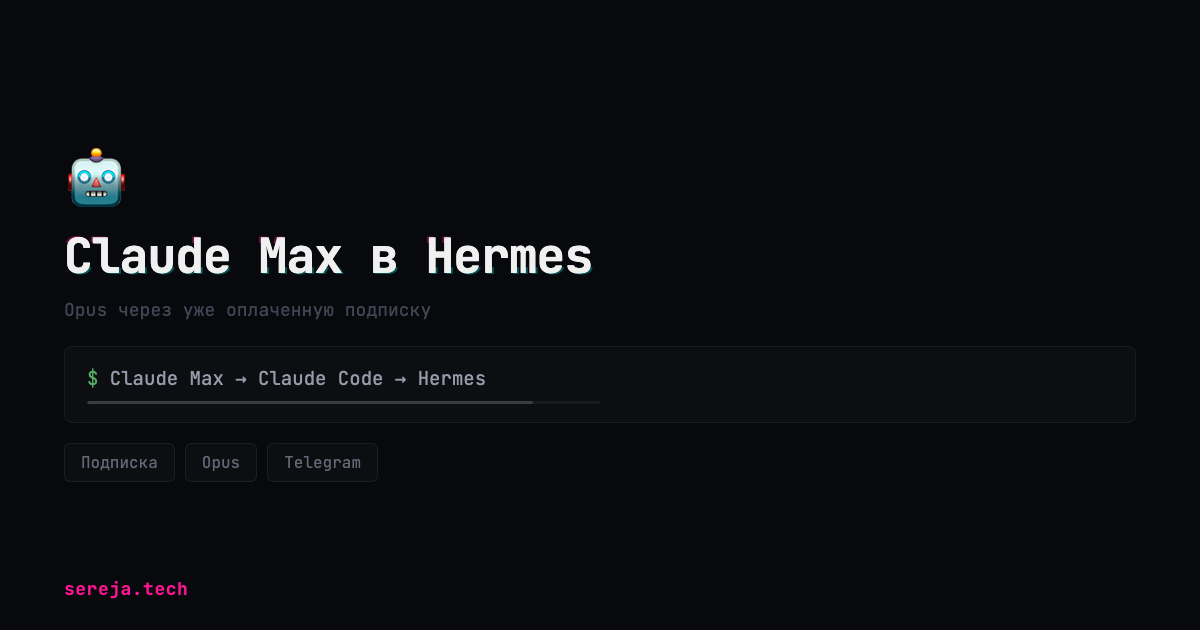
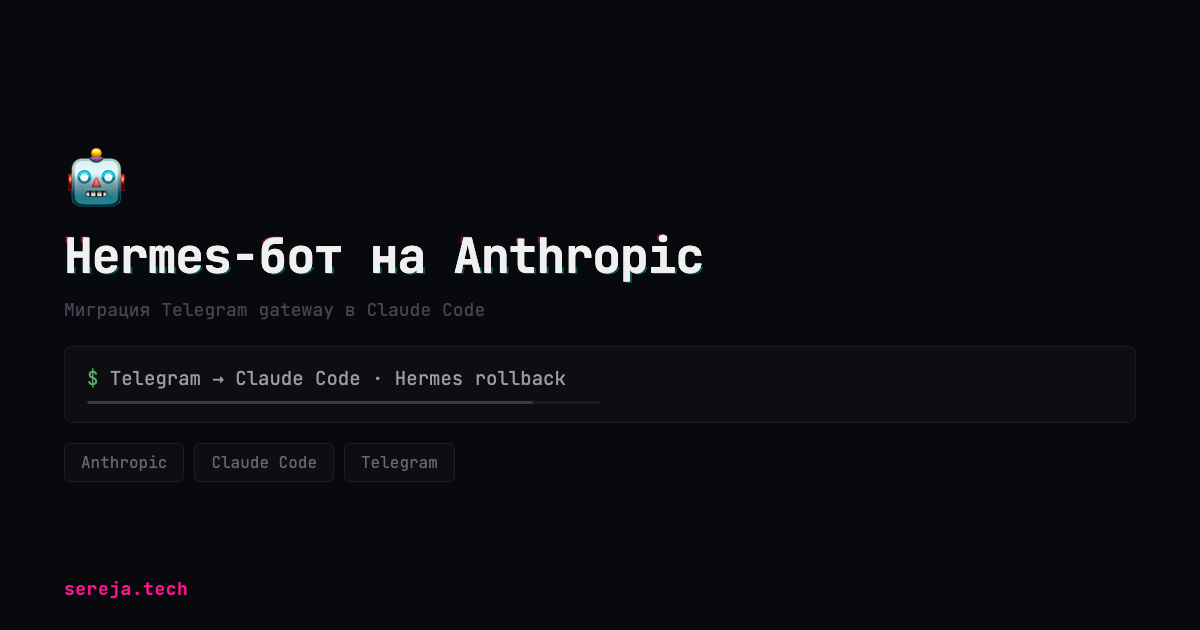
fix(blog): clarify Anthropic Hermes migration

diff --git a/content/blog/claude-max-hermes-telegram.md b/content/blog/claude-max-hermes-telegram.md
@@ -1,85 +1,117 @@
 ---
-title: "Как подключить Claude Max к Hermes через подписку"
+title: "Как перевести Hermes-бота на подписку Anthropic"
 date: 2026-08-04
-description: "Рабочая схема Claude Max для Hermes: Opus в Telegram через действующую подписку, официальный Claude Code и постоянный серверный канал."
-tags: ["hermes", "claude-code", "claude-max", "telegram", "вайбкодинг"]
+description: "Рабочая миграция Hermes-бота на Claude Code: подписка Anthropic, тот же Telegram-бот, выбранные скиллы и исправление ответов внутри topics."
+tags: ["hermes", "anthropic", "claude-code", "telegram", "вайбкодинг"]
 image: "/images/blog/claude-max-hermes-telegram-preview.png"
 cta: personal_corp
 cta_code: pc_blog
 ---
 
-Я подключил Claude Max к Hermes так, чтобы Opus в Telegram работал за счёт действующей подписки. Путь такой: официальный Claude Code авторизуется в аккаунте Max, Telegram Channel передаёт ему сообщения, рабочая папка остаётся у Hermes. Anthropic API key и Extra Usage для этой схемы не нужны.
+Сразу важное: официальный Telegram-плагин Anthropic не подключается внутрь Hermes. Я остановил Telegram gateway Hermes и запустил вместо него Claude Code Telegram Channel на токене того же бота. Имя бота осталось прежним. Модель, подписка и ответы теперь идут через Claude Code.
 
-На живом боте схема заработала с Opus в личке и в тредах. Extra Usage был выключен. Расход шёл по обычному лимиту Claude Max.
+Контекст тоже потребовал миграции. Я отдельно перенёс нужные инструкции, один скилл и рабочий репозиторий. История сессий и память Hermes автоматически в Claude Code не переехали. Это замена runtime с выборочным переносом артефактов.
 
-## Откуда берётся путаница
+Схему проверил на живом боте с Opus и подпиской Claude Max. Личка отвечает, проверенный private topic отвечает, сервис переживает рестарт. Extra Usage выключен.
 
-В настройках Hermes есть Anthropic OAuth. Кажется, что достаточно войти в аккаунт с Max и выбрать Opus. [Документация Hermes](https://hermes-agent.nousresearch.com/docs/integrations/providers) отдельно предупреждает: встроенный провайдер использует кредиты Extra Usage. Базовый лимит Max через него не расходуется.
+## Что именно меняется
 
-Для пути через подписку нужен официальный рантайм Claude Code. Anthropic сейчас разрешает использовать `claude -p` и Agent SDK в пределах подписки. Компания [приостановила планировавшееся изменение биллинга](https://support.claude.com/en/articles/15036540-use-the-claude-agent-sdk-with-your-claude-plan), поэтому схема продолжает работать с текущими лимитами Max.
+Пользователь продолжает писать тому же Telegram-боту. Под капотом работает другой gateway.
 
-## Как устроен путь через подписку
+| Часть | Что с ней происходит |
+|---|---|
+| Telegram-бот | Сохраняются username и токен |
+| Hermes gateway | Останавливается и остаётся готовым для rollback |
+| Claude Code | Становится новым runtime для модели и Telegram |
+| Инструкции и репозитории | Переносятся выборочно в новый workspace |
+| Скиллы | Ставятся отдельно в каталог Claude Code |
+| Память Hermes | Требует отдельного экспорта и адаптации |
+| Оплата модели | Идёт через авторизованную подписку Anthropic |
 
-На сервере запускается авторизованный Claude Code. К нему подключается официальный Telegram-плагин Anthropic. Плагин принимает сообщение, передаёт его в живую сессию Claude Code и возвращает ответ в Telegram.
+Поэтому фраза "подключить подписку к Hermes" немного обманчива. Рабочая схема переводит существующего Hermes-бота на Claude Code Channel. Сам процесс Hermes больше не обрабатывает сообщения.
+
+## Почему смена провайдера Hermes не подходит
+
+У Hermes есть собственный Anthropic OAuth. [Документация Hermes](https://hermes-agent.nousresearch.com/docs/integrations/providers) предупреждает, что этот маршрут использует кредиты Extra Usage. Обычный подписочный лимит через него не расходуется.
+
+Для подписки я использую [Claude Code Channels](https://code.claude.com/docs/en/channels). Claude Code авторизован в аккаунте Anthropic, а официальный Telegram Channel подключён к его живой сессии. В моём тесте тариф был Max, алиас `opus` выбрал `claude-opus-5`. Для другого тарифа сначала стоит проверить доступность Claude Code в аккаунте.
+
+Связка выглядит так:
 
 ```text
-Telegram → официальный Channel → Claude Code → Opus
-                         │
-                         └── файлы, скиллы и рабочая папка Hermes
+Telegram-бот
+     ↕
+официальный Telegram Channel
+     ↕
+Claude Code + подписка Anthropic
+     ↕
+новый workspace
+инструкции · рабочие репозитории
+
+каталог Claude Code
+выбранные скиллы
+
+Hermes gateway: остановлен, сохранён для rollback
 ```
 
-У [Claude Code Channels](https://code.claude.com/docs/en/channels) двусторонняя связь. Можно написать боту с телефона, получить ответ, продолжить разговор в терминале и снова вернуться в Telegram. Для постоянной работы сессию нужно держать живой на сервере.
+Официальный плагин запускается внутри сессии Claude Code. Hermes с ним напрямую не связан. Связь сохраняется на уровне бот-токена, имени бота и тех рабочих артефактов, которые агент перенёс в новый workspace.
 
-У меня модель `opus` разрешилась в `claude-opus-5`. Название конкретной версии со временем поменяется, поэтому в конфиге лучше просить актуальный Opus через официальный алиас.
+## Промпт для серверного агента
 
-## Промпт, который можно отдать агенту
-
-Я не настраивал всё руками. Дал серверному агенту задачу, а затем проверил результат двумя сообщениями. Вот версия промпта без моих приватных путей и токенов:
+Всю миграцию я отдал агенту. Вот исправленная версия промпта, которая учитывает реальную архитектуру и баг Telegram topics:
 
 {{< callout insight >}}
-Подключи мою действующую подписку Claude Max к Telegram-боту на этом сервере через официальный Claude Code Telegram Channel.
+Переведи существующего Hermes Telegram-бота на мою подписку Anthropic через официальный Claude Code Telegram Channel.
 
-Сначала сделай резервную копию текущего конфига и сервиса Hermes. Проверь, что Claude Code установлен из официального источника и авторизован в моём аккаунте Anthropic. Выбери актуальный Opus.
+Это миграция gateway. Не меняй провайдера внутри Hermes. Сначала сделай резервную копию текущего контейнера, конфигов Hermes и Telegram gateway. Зафиксируй точный rollback.
 
-Установи Bun и официальный Telegram-плагин `telegram@claude-plugins-official`. Возьми существующий токен бота из защищённого конфига, не печатай его в логах и ответах. Добавь мой Telegram user ID в allowlist. На одного бота оставь ровно один процесс polling.
+Проверь официальную установку и авторизацию Claude Code. Установи Bun и `telegram@claude-plugins-official`. Создай отдельный workspace для Claude Code. Перенеси туда только нужные инструкции и рабочие репозитории. Нужные скиллы установи в каталог Claude Code отдельно. Не заявляй перенос памяти Hermes без отдельной проверки.
 
-Запусти канал как постоянный systemd user service с корректным PATH для Bun и Claude Code. Рабочей директорией оставь папку Hermes, чтобы Claude видел его инструкции, память и скиллы.
+Возьми существующий Telegram bot token из защищённого конфига. Не печатай его. Создай `access.json` с mode `0600`: owner-only DM allowlist, а для нужной группы укажи её ID, `groups.<id>.allowFrom` с ID владельца и `requireMention`. Перед запуском нового gateway останови старый poller: один токен должен обслуживать ровно один процесс.
 
-Проверь два сценария: ответ в личном сообщении и ответ внутри Telegram-треда через `reply_to`. Покажи только статусы тестов, выбранную модель и источник лимита. Если тесты не прошли, верни прежний сервис из резервной копии.
+Проверь исходник и точную версию установленного Telegram-плагина. Если он не передаёт `message_thread_id`, сохрани backup `server.ts` и versioned patch. Сначала выполни `patch --dry-run`, затем примени hotfix в cache установленной версии: добавь ID topic во входящий channel meta, схему инструмента `reply`, `sendMessage`, отправку файлов и typing action. В инструкциях Claude Code потребуй возвращать тот же `message_thread_id` в каждом ответе внутри topic. `reply_to` оставь для quote reply. После update плагина снова проверь и при необходимости повторно примени patch.
+
+Сначала запусти Claude Code интерактивно в целевом workspace и сохрани UUID проверенной сессии. Затем создай постоянный user service с явными HOME, PATH и рабочим каталогом. В `ExecStart` зафиксируй `--resume <UUID> --model opus --channels plugin:telegram@claude-plugins-official`. Для Claude Code выдели псевдо-TTY через `/usr/bin/script -qefc`, включи linger и `systemctl --user enable --now`. Закрой SSH и только после этого повтори smoke.
+
+Проверь отдельными nonce: личное сообщение, private topic, ответ после рестарта сервиса. Для topic сравни входящий и исходящий `message_thread_id`, затем проверь через Telegram-клиент, что ответ имеет тот же forum topic. Покажи статусы без токенов и приватных ID.
+
+При ошибке сначала останови Claude gateway, затем верни прежний Hermes gateway. Никогда не запускай оба poller одновременно.
 {{< /callout >}}
 
-Во время авторизации Claude Code покажет ссылку или откроет браузер. Этот шаг лучше пройти самому: агенту не нужен пароль от Anthropic. Токен Telegram тоже стоит хранить в env-файле с закрытыми правами.
+Авторизацию Anthropic лучше пройти самому. Агенту достаточно увидеть статус успешного входа. Пароль, OAuth-код и содержимое файла с credentials ему отправлять не нужно.
 
-## Где чаще всего ломается
+## Почему бот ставил реакцию и молчал
 
-**Бот ставит реакцию и молчит.** Обычно входящее сообщение дошло, а ответ потерялся в шлюзе. Сначала смотрю журнал сервиса и проверяю, что Claude Code запущен в постоянной сессии.
+После первой миграции личка отвечала. В новом private topic бот ставил реакцию 👀 и замолкал. В логах всё выглядело успешно: входящее сообщение дошло, Claude вызвал `reply`, Telegram вернул `sent`.
 
-**Личка работает, треды молчат.** Telegram ждёт ответ с привязкой к исходному сообщению. В шлюзе должен передаваться `reply_to`. Это был отдельный тест в моей проверке.
+Причина оказалась в официальном плагине версии `0.0.6`. Во входящем событии были `chat_id` и `message_id`, инструмент `reply` принимал `reply_to`, а `message_thread_id` отсутствовал в обоих направлениях. Реакция работала, потому что она ставится на существующее сообщение. Новый ответ уходил за пределы открытого topic.
 
-**Telegram пишет конфликт polling.** Один токен одновременно слушают два процесса. Старый Hermes-шлюз и новый Channel начинают отбирать события друг у друга. На время переключения оставляю одного слушателя.
+`reply_to` и `message_thread_id` решают разные задачи. Первый создаёт quote reply. Второй выбирает topic для нового сообщения. Общий пробел описан в [issue #1158](https://github.com/anthropics/claude-plugins-official/issues/1158).
 
-**Сервис работает из терминала и падает после перезапуска.** У systemd может быть другой `PATH`. В нём должны находиться Bun и Claude Code. Полезно перезагрузить сервис и сервер, затем повторить тест.
+Отдельное наблюдение по private topics есть в [issue #4349](https://github.com/anthropics/claude-plugins-official/issues/4349).
 
-**Claude отвечает без памяти Hermes.** Проверь рабочую директорию процесса. Именно там должны лежать инструкции, скиллы и файлы контекста. Я отдельно попросил агента сохранить эту папку при миграции.
+Поле для topic определено в [Telegram Bot API](https://core.telegram.org/bots/api#sendmessage).
 
-## Как понять, что всё подключилось
+Я добавил локальный hotfix и повторил E2E дважды. Во втором прогоне сервис был предварительно перезапущен. В обоих случаях входящий event и вызов `reply` содержали одинаковый `message_thread_id`, а Telegram-клиент подтвердил ответ внутри исходного topic.
 
-Я проверяю четыре вещи:
+## Как проверить результат
 
-1. `claude` видит активную авторизацию Max.
-2. Алиас `opus` выбирает актуальную модель Opus.
-3. Бот отвечает в обычном сообщении и внутри треда.
-4. В аккаунте Anthropic Extra Usage остаётся выключенным.
+Я считаю миграцию рабочей после шести проверок:
 
-После этого отправляю реальную задачу с доступом к файлам Hermes. Простой ответ «привет» проверяет только Telegram. Запрос вроде «прочитай свои инструкции и назови доступные скиллы» подтверждает, что рабочий контекст тоже на месте.
+1. Claude Code видит активную подписочную авторизацию.
+2. Запущен один Telegram poller.
+3. Личное сообщение получает точный ответ.
+4. Topic-сообщение и ответ имеют одинаковый `message_thread_id`.
+5. После рестарта сервиса topic-тест проходит ещё раз.
+6. Claude читает перенесённые инструкции и видит каждый заявленный скилл.
 
-У лимита Max остаются обычные ограничения Anthropic. При большой нагрузке Claude Code может попросить дождаться сброса окна. Сервер использует уже действующую подписку, отдельный API-баланс не требуется.
+Проверка номер шесть особенно важна. Работающий Telegram ещё не означает, что память и возможности Hermes приехали вместе с токеном. Каждый артефакт нужно проверять отдельно.
 
-## Что в итоге
+## Что получилось
 
-Чтобы использовать обычный лимит Claude Max, я запускаю официальный Claude Code с Telegram Channel в рабочей папке Hermes. Hermes сохраняет инструкции, память и скиллы. Claude Code даёт Opus и списывает запросы с подписочного лимита.
+Снаружи это прежний Hermes-бот. Внутри сообщения теперь обслуживает Claude Code на подписке Anthropic. Hermes gateway остановлен и хранится как rollback.
 
-В моём случае переход занял одну агентскую задачу. Бот живёт на сервере, отвечает с Opus, видит скиллы Hermes и поддерживает треды. Главная проверка была простой: Extra Usage выключен, ответы продолжают приходить.
+Opus отвечает в личке и проверенном private topic. После рестарта связь сохраняется. Для topics пока нужен локальный hotfix поверх официального плагина `0.0.6`; после обновления плагина его придётся проверить заново.
 
 Похожие серверные связки и агентские отделы я собираю в Personal Corp. [Посмотреть, как это устроено](https://t.me/hashslash_bot?start=pc_blog).
 
@@ -87,21 +119,21 @@ Telegram → официальный Channel → Claude Code → Opus
 
 ## Частые вопросы
 
-### Можно подключить Max прямо через `hermes setup`?
+### Можно оставить Hermes runtime активным?
 
-Можно авторизовать Anthropic OAuth, при этом Hermes будет расходовать Extra Usage. Для базового лимита Max нужен путь через Claude Code.
+Для одного Telegram token нужен один poller. Во время работы Claude Channel процесс Hermes gateway должен быть остановлен. Его конфиг можно сохранить для rollback.
 
-### Нужен отдельный Anthropic API-ключ?
+### Нужен Anthropic API key?
 
-Для схемы с Claude Code Telegram Channel ключ не нужен. Достаточно активной авторизации Claude Max в официальном CLI.
+Для этой схемы ключ не нужен. Модель запускается внутри авторизованной сессии Claude Code и использует лимит подписки.
 
-### Бот будет работать после закрытия SSH?
+### Переносится память Hermes?
 
-Да, если Claude Code и Telegram Channel запущены как постоянный сервис или в другой живой серверной сессии. Обычный процесс в SSH завершится вместе с терминалом.
+Автоматически нет. Можно перенести совместимые инструкции, файлы и скиллы. Историю сессий и внутреннюю память нужно экспортировать и адаптировать отдельно.
 
-### Можно оставить старого Telegram-бота?
+### Hotfix для topics останется навсегда?
 
-Да. Его токен можно передать официальному Channel. Перед запуском стоит остановить прежний polling-процесс, чтобы два шлюза не читали одного бота одновременно.
+Локальный patch может исчезнуть после обновления плагина. После каждого обновления стоит проверить исходник и повторить private-topic E2E. Если Anthropic добавит `message_thread_id` upstream, локальный patch станет не нужен.
 
 ### Что почитать дальше
 

diff --git a/README.md b/README.md
@@ -36,7 +36,7 @@
 
 | Дата | Статья |
 |------|--------|
-| 2026-08-04 | [Как подключить Claude Max к Hermes через подписку](https://sereja.tech/blog/claude-max-hermes-telegram/) |
+| 2026-08-04 | [Как перевести Hermes-бота на подписку Anthropic](https://sereja.tech/blog/claude-max-hermes-telegram/) |
 | 2026-08-03 | [Почему агент не может выбрать лучший код](https://sereja.tech/blog/best-practices-code/) |
 | 2026-07-18 | [Kimi K3 за 1:47: сильный агент с одной проблемой](https://sereja.tech/blog/kimi-k3-guide/) |
 | 2026-07-18 | [База знаний для агентов: вход, слои и обслуживание](https://sereja.tech/blog/agent-knowledge-base/) |
